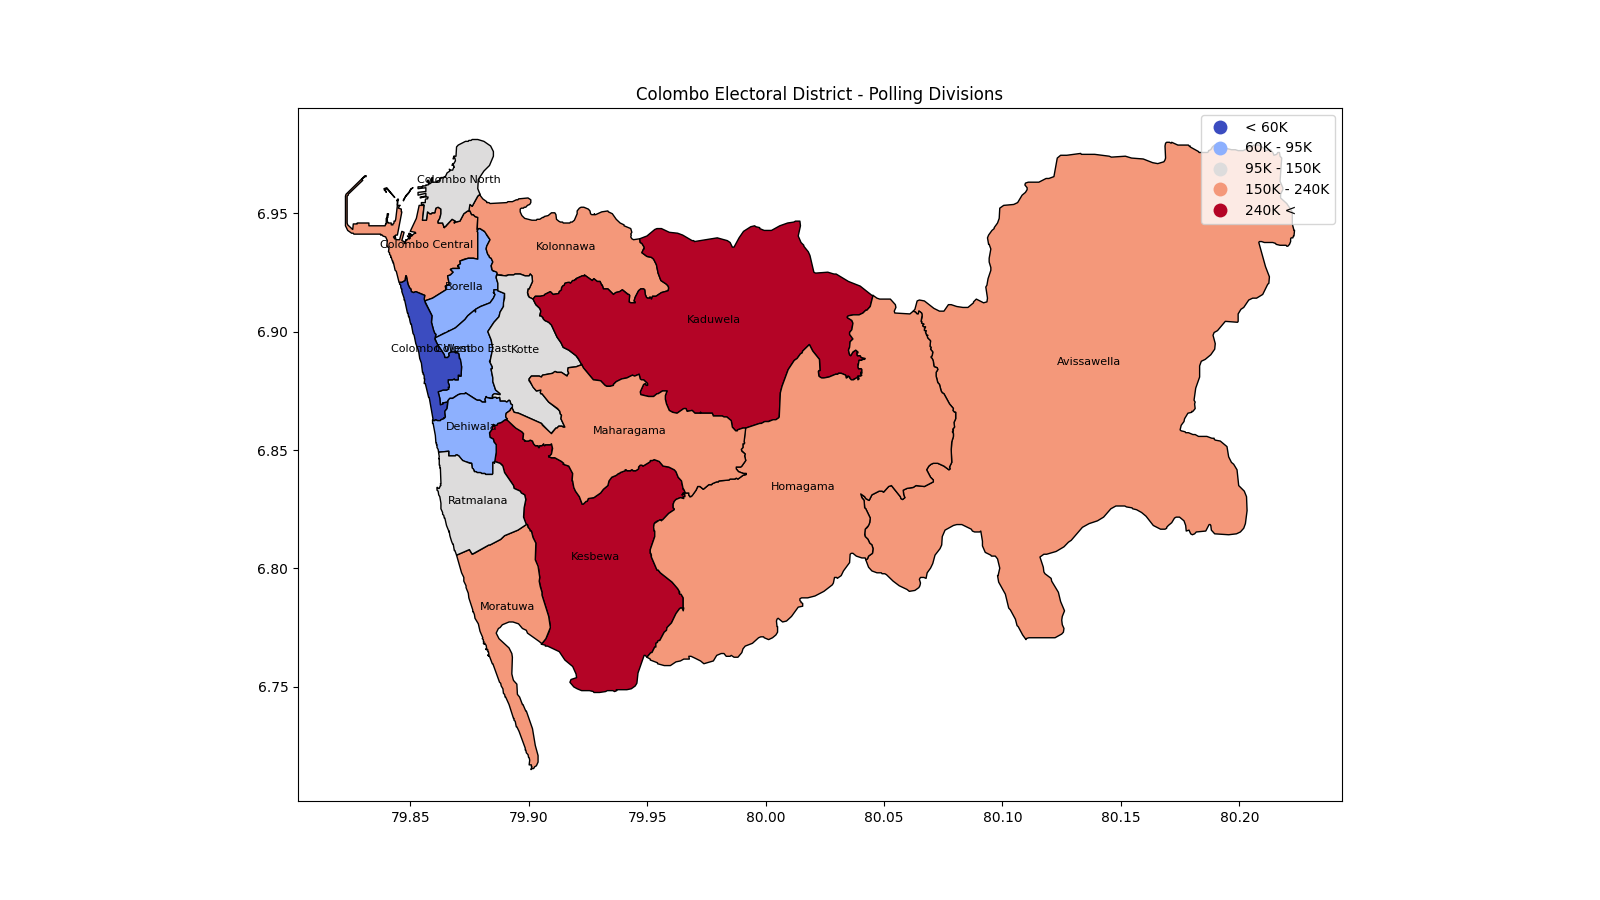
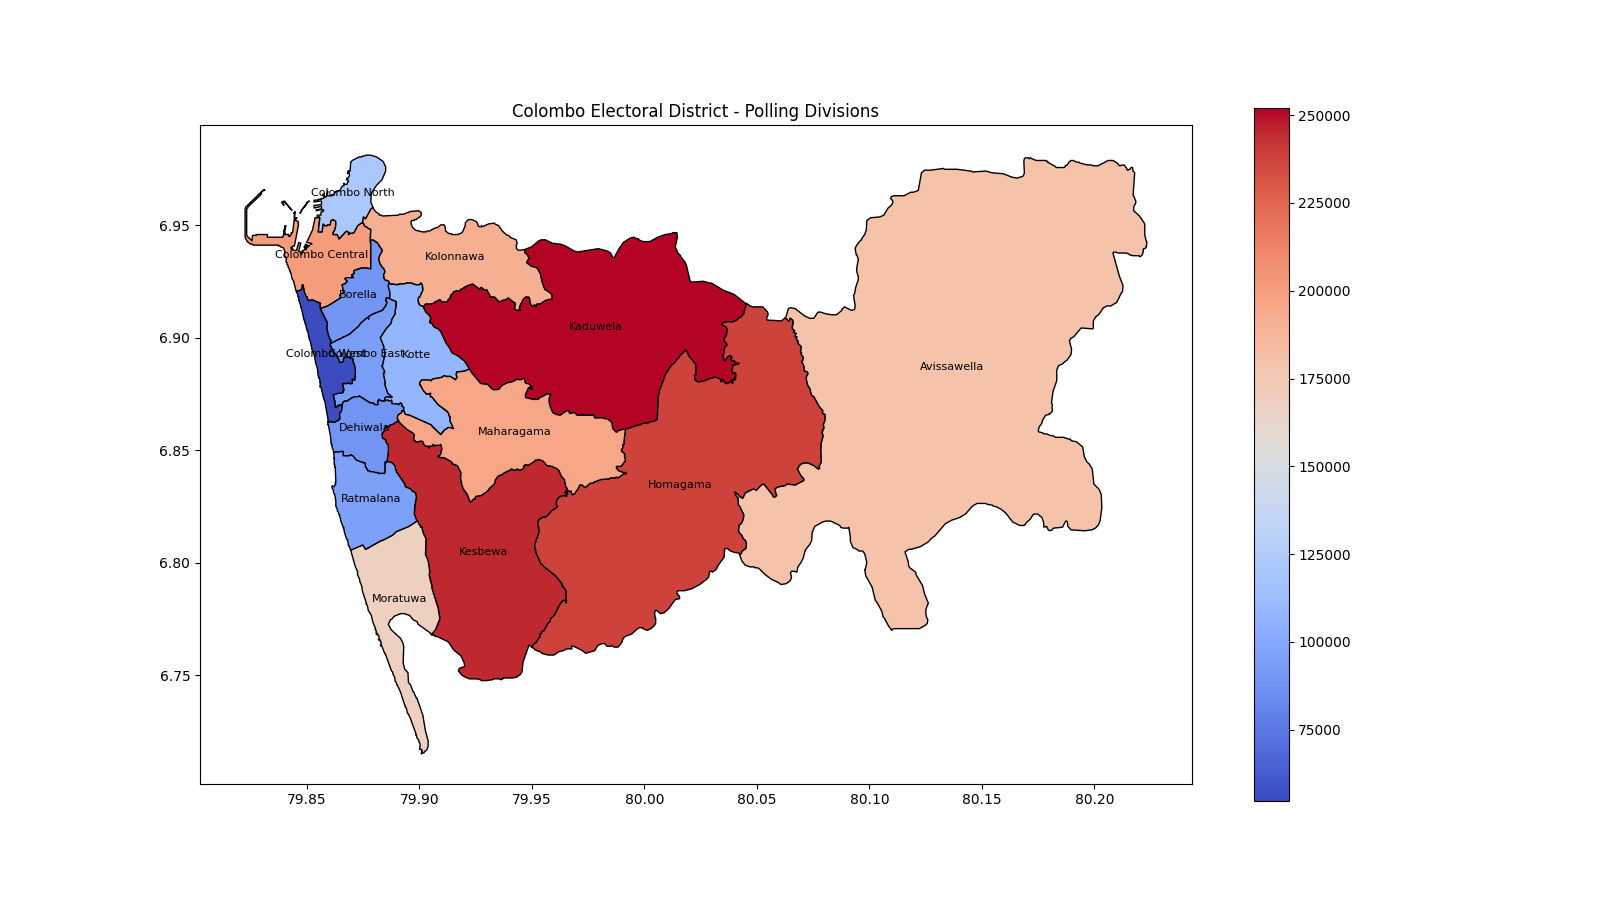
[main] Various (2021-10-01-1643)

diff --git a/src/sl_new_pds/mapx.py b/src/sl_new_pds/mapx.py
@@ -4,11 +4,14 @@ import os
 import random
 
 import geopandas as gpd
+import pandas as pd
 import matplotlib.pyplot as plt
 import pandas as pd
 from geo import geodata
 from gig import ent_types
 from utils import dt
+from shapely.geometry import Polygon
+
 
 from sl_new_pds._constants import IDEAL_POP_PER_SEAT
 from sl_new_pds._utils import log
@@ -43,53 +46,68 @@ def get_pop_color(pop):
 def draw_map(
     map_name, label_to_region_ids, label_to_seats=None, label_to_pop=None
 ):
-    fig, ax = plt.subplots(figsize=(32, 18))
-
+    all_gpd_df_list = []
     for label, region_ids in label_to_region_ids.items():
-        gpd_df_list = []
+        gpd_ds_list = []
         for region_id in region_ids:
             region_type = ent_types.get_entity_type(region_id)
             gpd_df = geodata.get_region_geodata(region_id, region_type)
-            gpd_df_list.append(gpd_df.explode()['geometry'])
-
-        gpd_df = gpd.GeoSeries(pd.concat(gpd_df_list).unary_union)
+            gpd_ds_list.append(gpd_df.explode()['geometry'])
+        gpd_ds = gpd.GeoSeries(pd.concat(gpd_ds_list).unary_union)
 
         from shapely.geometry import JOIN_STYLE
-
         eps = 0.0001
-        gpd_df = gpd_df.buffer(eps, 1, join_style=JOIN_STYLE.mitre).buffer(
+        gpd_ds = gpd_ds.buffer(eps, 1, join_style=JOIN_STYLE.mitre).buffer(
             -eps, 1, join_style=JOIN_STYLE.mitre
         )
 
-        xy = [
-            gpd_df.centroid.x.tolist()[0],
-            gpd_df.centroid.y.tolist()[0],
+        gpd_df = gpd.GeoDataFrame()
+        gpd_df['geometry'] = gpd_ds
+        gpd_df['name'] = label
+
+        seats = label_to_seats.get(label)
+        gpd_df['seats'] = seats
+
+        pop = label_to_pop.get(label)
+        gpd_df['population'] = pop
+
+        gpd_df['population_per_seat'] = gpd_df['population'] / gpd_df['seats']
+
+        all_gpd_df_list.append(gpd_df)
+
+    all_gpd_df = pd.concat(all_gpd_df_list)
+    all_gpd_df.plot(
+        column='population_per_seat',
+        legend=True,
+        cmap='coolwarm',
+        figsize=(16, 9),
+        edgecolor="black",
+        linewidth=1,
+    )
+
+    for idx, row in all_gpd_df.iterrows():
+        [x, y] = [
+            row['geometry'].centroid.x,
+            row['geometry'].centroid.y,
         ]
-
-        label_final = label
-        color = get_label_color(label)
-        if label_to_seats:
-            seats = label_to_seats.get(label)
-            label_final += f' ({seats})'
-
-            if label_to_pop:
-                pop = label_to_pop.get(label)
-                color = get_pop_color(pop / seats)
-                if pop > 1_000_000:
-                    pop_m = pop / 1_000_000
-                    label_final += f' - {pop_m:.3g}M'
-                elif pop > 1_000:
-                    pop_k = pop / 1_000
-                    label_final += f' - {pop_k:.3g}K'
-                else:
-                    label_final += f' - {pop:.3g}'
-
-        gpd_df.plot(ax=ax, color=color, edgecolor="black", linewidth=1)
-        ax.annotate(
-            label_final, xy=(xy), horizontalalignment='center', size=12
+        plt.annotate(
+            s=row['name'],
+            xy=[x, y],
+            horizontalalignment='center',
+            fontsize=8,
         )
+        population_k = row['population'] / 1_000
+        seats = row['seats']
+        seats_str = ''
+        if seats > 1:
+            seats_str = f' ({seats})'
 
-    ax.legend(loc='lower right', fontsize=15, frameon=True)
+        plt.annotate(
+            s=f'{population_k:.3g}K {seats_str}',
+            xy=[x, y + 0.004],
+            horizontalalignment='center',
+            fontsize=12,
+        )
 
     map_name_str = dt.to_kebab(map_name)
     image_file = f'/tmp/sl_new_pds.map.{map_name_str}.png'
@@ -103,21 +121,39 @@ if __name__ == '__main__':
     draw_map(
         map_name='New Electoral Districts',
         label_to_region_ids={
-            'Colombo': [
-                'LK-1127',
-                'LK-1103',
+            'Colombo North': [
+                'EC-01A',
             ],
-            'Gampaha': [
-                'LK-12',
+            'Colombo Central': [
+                'EC-01B',
             ],
-            {},
+            'Borella': [
+                'EC-01C',
+            ],
+            'Colombo East': [
+                'EC-01D',
+            ],
+            'Colombo West': [
+                'EC-01E',
+            ],
+            'Kaduwela': [
+                'EC-01J',
+            ],
         },
         label_to_seats={
-            'Colombo': 4,
-            'Gampaha': 19,
+            'Colombo North': 1,
+            'Colombo Central': 1,
+            'Borella': 1,
+            'Colombo East': 1,
+            'Colombo West': 1,
+            'Kaduwela': 1,
         },
         label_to_pop={
-            'Colombo': 500_000,
-            'Gampaha': 2_000_000,
+            'Colombo North': 121603,
+            'Colombo Central': 201620,
+            'Borella': 89806,
+            'Colombo East': 93260,
+            'Colombo West': 54682,
+            'Kaduwela': 252041,
         },
     )

diff --git a/src/sl_new_pds/examples/example-1-colombo-current.py b/src/sl_new_pds/examples/example-1-colombo-current.py
@@ -7,23 +7,9 @@ gpd_df = geodata.get_region_geodata('EC-01', 'pd')
 
 gpd_df.plot(
     column='population',
-
-    scheme='UserDefined',
-    classification_kwds={
-        'bins': [60_000, 95_000, 150_000, 240_000],
-    },
     legend=True,
-    legend_kwds={
-        'labels': [
-            '< 60K',
-            '60K - 95K',
-            '95K - 150K',
-            '150K - 240K',
-            '240K <',
-        ],
-    },
     cmap='coolwarm',
-    figsize=(7, 9),
+    figsize=(16, 9),
     edgecolor="black",
     linewidth=1,
 )

diff --git a/src/sl_new_pds/region_utils.py b/src/sl_new_pds/region_utils.py
@@ -5,6 +5,9 @@ from utils import dt
 def get_label(old_label, region_ids):
     if len(region_ids) > 5:
         return old_label
+    plural = ''
+    if len(region_ids) >= 2:
+        plural = 's'
 
     region_ents = list(
         map(
@@ -15,6 +18,7 @@ def get_label(old_label, region_ids):
     label_entity_type = ent_types.get_entity_type(region_ents[0]['id'])
     return dt.to_kebab(
         label_entity_type
+        + plural
         + ' - '
         + ' '.join(
             list(

diff --git a/src/sl_new_pds/mutate.py b/src/sl_new_pds/mutate.py
@@ -57,9 +57,6 @@ def mutate_split_max_region(conf):
         if min_seats_r < 0.95:
             do_expand = True
 
-    if max_label_region_ids[0] != 'EC-01':
-        do_expand = False
-
     if do_expand:
         new_max_label_region_ids = []
         for max_label_region_id in max_label_region_ids:

diff --git a/README.md b/README.md
@@ -45,3 +45,4 @@
   *  [2021-10-01 02:27PM] Done
   *  [2021-10-01 02:49PM] Added example-1
   *  [2021-10-01 02:53PM] Added example-1
+  *  [2021-10-01 04:43PM] Various
